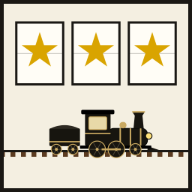
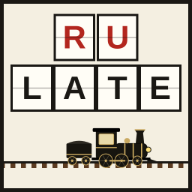
Rename the train game to CalcRU-Late, v1.1
Claude-Session: https://claude.ai/code/session_01FXsmfoauxf49KFRSfpntQY

diff --git a/timegame/index.html b/timegame/index.html
@@ -4,11 +4,11 @@
 <meta charset="utf-8">
 <meta name="viewport" content="width=device-width,initial-scale=1,maximum-scale=1,user-scalable=no,viewport-fit=cover">
 <meta name="claude:viewport-fit-sides" content="cover">
-<title>Track Record</title>
+<title>CalcRU-Late</title>
 <meta name="description" content="A daily train number game. Set the lever, leave on time, and arrive on the dot.">
 <meta name="theme-color" content="#f4efe1">
 <meta name="apple-mobile-web-app-capable" content="yes">
-<meta name="apple-mobile-web-app-title" content="Track Record">
+<meta name="apple-mobile-web-app-title" content="CalcRU-Late">
 <link rel="manifest" href="manifest.json">
 <link rel="apple-touch-icon" href="icon-180.png">
 <link rel="icon" href="icon-180.png">
@@ -99,13 +99,13 @@ input[type=range]::-moz-range-thumb{width:28px;height:38px;background:var(--btn)
   <div id="body"></div>
 </div>
 
-<div class="sheet" id="terms" hidden><div class="card"><h2>Track Record</h2>
-  <ul class="how"><li>Track Record is a game, just for fun. No real money, no betting and no prizes.</li><li>It’s provided as is, and it may change or stop working at any time.</li><li>No accounts and no ads. Nothing is sold. Your results stay on your device.</li><li>The website version sends an anonymous check-in so we can count how many devices play. It never includes your name, contacts or location.</li></ul>
+<div class="sheet" id="terms" hidden><div class="card"><h2>CalcRU-Late</h2>
+  <ul class="how"><li>CalcRU-Late is a game, just for fun. No real money, no betting and no prizes.</li><li>It’s provided as is, and it may change or stop working at any time.</li><li>No accounts and no ads. Nothing is sold. Your results stay on your device.</li><li>The website version sends an anonymous check-in so we can count how many devices play. It never includes your name, contacts or location.</li></ul>
   <button class="go" id="termsGo">Agree and play</button><div class="ver">By tapping Agree and play, you accept these terms.</div></div></div>
 
 <div class="sheet" id="cover" hidden><div class="in">
   <a id="coverHub" href="https://smaisle.app/daily/" hidden>‹ smAisle Daily</a>
-  <div class="mh"><h1>Track Record</h1><div><span id="cvDate"></span><span id="cvNo"></span></div></div>
+  <div class="mh"><h1>Calc<span style="color:var(--red)">RU</span>-Late</h1><div><span id="cvDate"></span><span id="cvNo"></span></div></div>
   <canvas id="cvArt" aria-hidden="true"></canvas>
   <p class="tag">Set the lever. Leave on time. Arrive on the dot.</p>
   <div id="cvStats" hidden></div>
@@ -146,7 +146,7 @@ input[type=range]::-moz-range-thumb{width:28px;height:38px;background:var(--btn)
 
 <script>
 (function(){
-var VERSION='1.0',VDATE='Nov 3',GAME='tr',TERMS='tr-terms',EPOCH='2026-11-03',FB_KEY='AIzaSyAlbSCTpAiK-1tojkyWrY3QuJsSzILHSfs',FB_PROJ='aislerun-88e79',URL='https://smaisle.app/Trackulate/timegame/';
+var VERSION='1.1',VDATE='Nov 4',GAME='tr',TERMS='tr-terms',EPOCH='2026-11-03',FB_KEY='AIzaSyAlbSCTpAiK-1tojkyWrY3QuJsSzILHSfs',FB_PROJ='aislerun-88e79',URL='https://smaisle.app/Trackulate/timegame/';
 var VTXT='v'+VERSION+' · '+VDATE,$=function(i){return document.getElementById(i)};
 var WEB=/github\.io$|smaisle\.app$/.test(location.hostname);
 var store={get:function(k,d){try{var v=localStorage.getItem(k);return v===null?d:v}catch(e){return d}},set:function(k,v){try{localStorage.setItem(k,v)}catch(e){}},json:function(k,d){try{var v=JSON.parse(localStorage.getItem(k));return v===null?d:v}catch(e){return d}},put:function(k,v){try{localStorage.setItem(k,JSON.stringify(v))}catch(e){}}};
@@ -256,13 +256,13 @@ function done(lv,sp,total){busy=false;tries++;var diff=Math.round(lv+total+T.tz-
  if(DEMO){DEMO.done=1;return}
  if($('ag'))$('ag').onclick=setup;$('nx').onclick=function(){tries=0;i++;if(i>=5){if(!store.json(skey(DAY),{}).over)record();fin(true)}else{save();setup()}}}
 function title(t){return t>=13?'Best conductor on the line.':t>=8?'Mostly on schedule.':'The station master wants a word.'}
-function receipt(){var t=sumS();return '<h3>smAisle</h3><div class="sub">Track Record · No. '+dayNo(DAY)+' · '+nd(DAY,{month:'short',day:'numeric'})+'</div>'+TN.map(function(x,k){var s=stars[k]||0;return '<div class="rl"><span>'+nice(x.a)+' to '+nice(x.b)+'</span><i></i><span>'+'★'.repeat(s)+'☆'.repeat(3-s)+'</span></div>'}).join('')+'<div class="rl tot"><span>Total</span><i></i><span>'+t+' of 15</span></div>'}
+function receipt(){var t=sumS();return '<h3>smAisle</h3><div class="sub">CalcRU-Late · No. '+dayNo(DAY)+' · '+nd(DAY,{month:'short',day:'numeric'})+'</div>'+TN.map(function(x,k){var s=stars[k]||0;return '<div class="rl"><span>'+nice(x.a)+' to '+nice(x.b)+'</span><i></i><span>'+'★'.repeat(s)+'☆'.repeat(3-s)+'</span></div>'}).join('')+'<div class="rl tot"><span>Total</span><i></i><span>'+t+' of 15</span></div>'}
 function fin(loud){RID++;busy=false;i=5;if(loud)fanfare();hdr();msg(title(sumS()));board([ln('LAST TRAIN'),ln('ALL IN')]);$('body').innerHTML='<div class="rc">'+receipt()+'</div><button class="go big" id="sr">See results</button>';$('sr').onclick=showDone;if(loud)setTimeout(function(){if(i>=5&&!DEMO)showDone()},1500);else showDone()}
 function showDone(){if(DEMO)return;only('done');loadMore();$('dTitle').textContent=title(sumS());$('dRc').innerHTML=receipt();$('dNext').textContent=PAST?'Archive trains':'New trains at midnight Eastern';$('dHub').hidden=!(WEB||window.DG_APP);$('dShare').style.gridColumn=$('dHub').hidden?'1/-1':''}
 function record(){var t=stars.reduce(function(a,b){return a+(b||0)},0);store.put(skey(DAY),{over:1,i:5,tries:0,stars:stars});var h=store.json('tr-hist',{});if(!h[DAY]){h[DAY]={t:t};if(PAST)h[DAY].late=1;store.put('tr-hist',h)}if(!PAST){markDone();checkIn('done')}}
 function markDone(){try{var s=store.json('smaisle_done',{})||{},d=new Date(),day=d.getFullYear()+'-'+String(d.getMonth()+1).padStart(2,'0')+'-'+String(d.getDate()).padStart(2,'0');s[day]=s[day]||[];if(s[day].indexOf('tr')<0)s[day].push('tr');var k=Object.keys(s).sort();while(k.length>60)delete s[k.shift()];store.put('smaisle_done',s)}catch(e){}}
 function statsOf(){var h=store.json('tr-hist',{}),V=Object.values(h),n=dayNo(TODAY),run=0,max=0;for(var q=1;q<=n;q++){var r=h[dateOf(q)];if(r&&!r.late){run++;max=Math.max(max,run)}else if(q<n)run=0}var sum=V.reduce(function(a,v){return a+v.t},0);return {played:V.length,avg:V.length?Math.round(sum/V.length*10)/10:0,top:V.reduce(function(a,v){return Math.max(a,v.t)},0),perfect:V.filter(function(v){return v.t===15}).length,cur:run,max:max}}
-function share(){var c=['⬛','🟧','🟨','🟩'];return 'Track Record No. '+dayNo(DAY)+' 🚂\n'+[0,1,2,3,4].map(function(k){return c[stars[k]||0]}).join('')+' '+sumS()+' of 15\n'+URL}
+function share(){var c=['⬛','🟧','🟨','🟩'];return 'CalcRU-Late No. '+dayNo(DAY)+' 🚂\n'+[0,1,2,3,4].map(function(k){return c[stars[k]||0]}).join('')+' '+sumS()+' of 15\n'+URL}
 /* usage check-in. r = total stars for the day. */
 function devId(){var id=store.get('tr-dev','');if(!id){id=Array.from(crypto.getRandomValues(new Uint8Array(12)),function(b){return 'abcdefghijklmnopqrstuvwxyz0123456789'[b%36]}).join('');store.set('tr-dev',id)}return id}
 function inviteCode(){try{var c=localStorage.getItem('smaisle_code');if(c)return String(c).slice(0,40);var m=store.json('smaisle_codes',null);if(m){var v=Object.values(m).find(function(y){return y});if(v)return String(v).slice(0,40)}}catch(e){}return 'unknown'}
@@ -312,7 +312,7 @@ function stopDemo(){if(!DEMO)return;DEMO=null;RID++;busy=false;$('demoBar').hidd
 function startDemo(){stopDemo();closeAll();DEMO={i:-1,done:0};TN=DT;labels();$('demoBar').hidden=false;$('demoBlock').hidden=false;dnext()}
 function dnext(){if(!DEMO)return;DEMO.i++;if(DEMO.i>=DS.length){cover();return}var s=DS[DEMO.i];$('demoStep').textContent='Demo · '+(DEMO.i+1)+' of '+DS.length;$('demoNext').disabled=true;$('demoNext').textContent=DEMO.i===DS.length-1?'Done':'Next';if(s.r)s.r();var wait=function(){if(!DEMO)return;if(!s.w||s.w()){$('demoText').innerHTML=s.t();$('demoNext').disabled=false}else setTimeout(wait,150)};setTimeout(wait,s.r?400:60)}
 $('demoNext').onclick=dnext;$('demoSkip').onclick=cover;$('coverDemo').onclick=$('helpDemo').onclick=startDemo;
-['helpVer','sVer'].forEach(function(k){$(k).textContent=VTXT});$('mVer').textContent='Track Record · '+VTXT+' · smAisle';$('cvVer').textContent=VTXT;
+['helpVer','sVer'].forEach(function(k){$(k).textContent=VTXT});$('mVer').textContent='CalcRU-Late · '+VTXT+' · smAisle';$('cvVer').textContent=VTXT;
 if(WEB||window.DG_APP){$('coverHub').hidden=false;$('cover').classList.add('hub');$('mHub').hidden=false;$('coverHub').onclick=function(e){if(window.DG_APP){e.preventDefault();toApp({cmd:'home'})}}}
 dark();snd();
 if(store.get(TERMS,'')){cover();checkIn('open')}else only('terms');

diff --git a/timegame/source/game.js b/timegame/source/game.js
@@ -1,5 +1,5 @@
 (function(){
-var VERSION='1.0',VDATE='Nov 3',GAME='tr',TERMS='tr-terms',EPOCH='2026-11-03',FB_KEY='AIzaSyAlbSCTpAiK-1tojkyWrY3QuJsSzILHSfs',FB_PROJ='aislerun-88e79',URL='https://smaisle.app/Trackulate/timegame/';
+var VERSION='1.1',VDATE='Nov 4',GAME='tr',TERMS='tr-terms',EPOCH='2026-11-03',FB_KEY='AIzaSyAlbSCTpAiK-1tojkyWrY3QuJsSzILHSfs',FB_PROJ='aislerun-88e79',URL='https://smaisle.app/Trackulate/timegame/';
 var VTXT='v'+VERSION+' · '+VDATE,$=function(i){return document.getElementById(i)};
 var WEB=/github\.io$|smaisle\.app$/.test(location.hostname);
 var store={get:function(k,d){try{var v=localStorage.getItem(k);return v===null?d:v}catch(e){return d}},set:function(k,v){try{localStorage.setItem(k,v)}catch(e){}},json:function(k,d){try{var v=JSON.parse(localStorage.getItem(k));return v===null?d:v}catch(e){return d}},put:function(k,v){try{localStorage.setItem(k,JSON.stringify(v))}catch(e){}}};
@@ -41,13 +41,13 @@ function done(lv,sp,total){busy=false;tries++;var diff=Math.round(lv+total+T.tz-
  if(DEMO){DEMO.done=1;return}
  if($('ag'))$('ag').onclick=setup;$('nx').onclick=function(){tries=0;i++;if(i>=5){if(!store.json(skey(DAY),{}).over)record();fin(true)}else{save();setup()}}}
 function title(t){return t>=13?'Best conductor on the line.':t>=8?'Mostly on schedule.':'The station master wants a word.'}
-function receipt(){var t=sumS();return '<h3>smAisle</h3><div class="sub">Track Record · No. '+dayNo(DAY)+' · '+nd(DAY,{month:'short',day:'numeric'})+'</div>'+TN.map(function(x,k){var s=stars[k]||0;return '<div class="rl"><span>'+nice(x.a)+' to '+nice(x.b)+'</span><i></i><span>'+'★'.repeat(s)+'☆'.repeat(3-s)+'</span></div>'}).join('')+'<div class="rl tot"><span>Total</span><i></i><span>'+t+' of 15</span></div>'}
+function receipt(){var t=sumS();return '<h3>smAisle</h3><div class="sub">CalcRU-Late · No. '+dayNo(DAY)+' · '+nd(DAY,{month:'short',day:'numeric'})+'</div>'+TN.map(function(x,k){var s=stars[k]||0;return '<div class="rl"><span>'+nice(x.a)+' to '+nice(x.b)+'</span><i></i><span>'+'★'.repeat(s)+'☆'.repeat(3-s)+'</span></div>'}).join('')+'<div class="rl tot"><span>Total</span><i></i><span>'+t+' of 15</span></div>'}
 function fin(loud){RID++;busy=false;i=5;if(loud)fanfare();hdr();msg(title(sumS()));board([ln('LAST TRAIN'),ln('ALL IN')]);$('body').innerHTML='<div class="rc">'+receipt()+'</div><button class="go big" id="sr">See results</button>';$('sr').onclick=showDone;if(loud)setTimeout(function(){if(i>=5&&!DEMO)showDone()},1500);else showDone()}
 function showDone(){if(DEMO)return;only('done');loadMore();$('dTitle').textContent=title(sumS());$('dRc').innerHTML=receipt();$('dNext').textContent=PAST?'Archive trains':'New trains at midnight Eastern';$('dHub').hidden=!(WEB||window.DG_APP);$('dShare').style.gridColumn=$('dHub').hidden?'1/-1':''}
 function record(){var t=stars.reduce(function(a,b){return a+(b||0)},0);store.put(skey(DAY),{over:1,i:5,tries:0,stars:stars});var h=store.json('tr-hist',{});if(!h[DAY]){h[DAY]={t:t};if(PAST)h[DAY].late=1;store.put('tr-hist',h)}if(!PAST){markDone();checkIn('done')}}
 function markDone(){try{var s=store.json('smaisle_done',{})||{},d=new Date(),day=d.getFullYear()+'-'+String(d.getMonth()+1).padStart(2,'0')+'-'+String(d.getDate()).padStart(2,'0');s[day]=s[day]||[];if(s[day].indexOf('tr')<0)s[day].push('tr');var k=Object.keys(s).sort();while(k.length>60)delete s[k.shift()];store.put('smaisle_done',s)}catch(e){}}
 function statsOf(){var h=store.json('tr-hist',{}),V=Object.values(h),n=dayNo(TODAY),run=0,max=0;for(var q=1;q<=n;q++){var r=h[dateOf(q)];if(r&&!r.late){run++;max=Math.max(max,run)}else if(q<n)run=0}var sum=V.reduce(function(a,v){return a+v.t},0);return {played:V.length,avg:V.length?Math.round(sum/V.length*10)/10:0,top:V.reduce(function(a,v){return Math.max(a,v.t)},0),perfect:V.filter(function(v){return v.t===15}).length,cur:run,max:max}}
-function share(){var c=['⬛','🟧','🟨','🟩'];return 'Track Record No. '+dayNo(DAY)+' 🚂\n'+[0,1,2,3,4].map(function(k){return c[stars[k]||0]}).join('')+' '+sumS()+' of 15\n'+URL}
+function share(){var c=['⬛','🟧','🟨','🟩'];return 'CalcRU-Late No. '+dayNo(DAY)+' 🚂\n'+[0,1,2,3,4].map(function(k){return c[stars[k]||0]}).join('')+' '+sumS()+' of 15\n'+URL}
 /* usage check-in. r = total stars for the day. */
 function devId(){var id=store.get('tr-dev','');if(!id){id=Array.from(crypto.getRandomValues(new Uint8Array(12)),function(b){return 'abcdefghijklmnopqrstuvwxyz0123456789'[b%36]}).join('');store.set('tr-dev',id)}return id}
 function inviteCode(){try{var c=localStorage.getItem('smaisle_code');if(c)return String(c).slice(0,40);var m=store.json('smaisle_codes',null);if(m){var v=Object.values(m).find(function(y){return y});if(v)return String(v).slice(0,40)}}catch(e){}return 'unknown'}
@@ -97,7 +97,7 @@ function stopDemo(){if(!DEMO)return;DEMO=null;RID++;busy=false;$('demoBar').hidd
 function startDemo(){stopDemo();closeAll();DEMO={i:-1,done:0};TN=DT;labels();$('demoBar').hidden=false;$('demoBlock').hidden=false;dnext()}
 function dnext(){if(!DEMO)return;DEMO.i++;if(DEMO.i>=DS.length){cover();return}var s=DS[DEMO.i];$('demoStep').textContent='Demo · '+(DEMO.i+1)+' of '+DS.length;$('demoNext').disabled=true;$('demoNext').textContent=DEMO.i===DS.length-1?'Done':'Next';if(s.r)s.r();var wait=function(){if(!DEMO)return;if(!s.w||s.w()){$('demoText').innerHTML=s.t();$('demoNext').disabled=false}else setTimeout(wait,150)};setTimeout(wait,s.r?400:60)}
 $('demoNext').onclick=dnext;$('demoSkip').onclick=cover;$('coverDemo').onclick=$('helpDemo').onclick=startDemo;
-['helpVer','sVer'].forEach(function(k){$(k).textContent=VTXT});$('mVer').textContent='Track Record · '+VTXT+' · smAisle';$('cvVer').textContent=VTXT;
+['helpVer','sVer'].forEach(function(k){$(k).textContent=VTXT});$('mVer').textContent='CalcRU-Late · '+VTXT+' · smAisle';$('cvVer').textContent=VTXT;
 if(WEB||window.DG_APP){$('coverHub').hidden=false;$('cover').classList.add('hub');$('mHub').hidden=false;$('coverHub').onclick=function(e){if(window.DG_APP){e.preventDefault();toApp({cmd:'home'})}}}
 dark();snd();
 if(store.get(TERMS,'')){cover();checkIn('open')}else only('terms');

diff --git a/timegame/source/page.html b/timegame/source/page.html
@@ -4,11 +4,11 @@
 <meta charset="utf-8">
 <meta name="viewport" content="width=device-width,initial-scale=1,maximum-scale=1,user-scalable=no,viewport-fit=cover">
 <meta name="claude:viewport-fit-sides" content="cover">
-<title>Track Record</title>
+<title>CalcRU-Late</title>
 <meta name="description" content="A daily train number game. Set the lever, leave on time, and arrive on the dot.">
 <meta name="theme-color" content="#f4efe1">
 <meta name="apple-mobile-web-app-capable" content="yes">
-<meta name="apple-mobile-web-app-title" content="Track Record">
+<meta name="apple-mobile-web-app-title" content="CalcRU-Late">
 <link rel="manifest" href="manifest.json">
 <link rel="apple-touch-icon" href="icon-180.png">
 <link rel="icon" href="icon-180.png">
@@ -99,13 +99,13 @@ input[type=range]::-moz-range-thumb{width:28px;height:38px;background:var(--btn)
   <div id="body"></div>
 </div>
 
-<div class="sheet" id="terms" hidden><div class="card"><h2>Track Record</h2>
-  <ul class="how"><li>Track Record is a game, just for fun. No real money, no betting and no prizes.</li><li>It’s provided as is, and it may change or stop working at any time.</li><li>No accounts and no ads. Nothing is sold. Your results stay on your device.</li><li>The website version sends an anonymous check-in so we can count how many devices play. It never includes your name, contacts or location.</li></ul>
+<div class="sheet" id="terms" hidden><div class="card"><h2>CalcRU-Late</h2>
+  <ul class="how"><li>CalcRU-Late is a game, just for fun. No real money, no betting and no prizes.</li><li>It’s provided as is, and it may change or stop working at any time.</li><li>No accounts and no ads. Nothing is sold. Your results stay on your device.</li><li>The website version sends an anonymous check-in so we can count how many devices play. It never includes your name, contacts or location.</li></ul>
   <button class="go" id="termsGo">Agree and play</button><div class="ver">By tapping Agree and play, you accept these terms.</div></div></div>
 
 <div class="sheet" id="cover" hidden><div class="in">
   <a id="coverHub" href="https://smaisle.app/daily/" hidden>‹ smAisle Daily</a>
-  <div class="mh"><h1>Track Record</h1><div><span id="cvDate"></span><span id="cvNo"></span></div></div>
+  <div class="mh"><h1>Calc<span style="color:var(--red)">RU</span>-Late</h1><div><span id="cvDate"></span><span id="cvNo"></span></div></div>
   <canvas id="cvArt" aria-hidden="true"></canvas>
   <p class="tag">Set the lever. Leave on time. Arrive on the dot.</p>
   <div id="cvStats" hidden></div>

diff --git a/timegame/owner.html b/timegame/owner.html
@@ -4,7 +4,7 @@
 <meta charset="utf-8">
 <meta name="viewport" content="width=device-width, initial-scale=1">
 <meta name="robots" content="noindex,nofollow">
-<title>Track Record Owner</title>
+<title>CalcRU-Late Owner</title>
 <style>
   :root{--bg:#070b1a;--paper:#121a38;--ink:#f5f7ff;--muted:#93a0c4;--line:#26315a;--hot:#ff6a2b}
   *{box-sizing:border-box} body{margin:0;background:var(--bg);color:var(--ink);font:15px/1.45 -apple-system,BlinkMacSystemFont,"Segoe UI",Roboto,sans-serif}
@@ -25,7 +25,7 @@
 </head>
 <body>
 <header>
-  <h1><em>Track Record</em> owner</h1>
+  <h1><em>CalcRU-Late</em> owner</h1>
   <div class="row"><span id="who" class="muted"></span><button id="signin" class="primary" hidden>Sign in with Google</button><button id="signout" hidden>Sign out</button></div>
 </header>
 <main>
@@ -45,7 +45,7 @@ $("#signin").onclick=()=>auth.signInWithPopup(new firebase.auth.GoogleAuthProvid
 $("#signout").onclick=()=>auth.signOut();
 auth.onAuthStateChanged(async u=>{
   $("#signin").hidden=!!u; $("#signout").hidden=!u; $("#who").textContent=u?u.email:""; $("#usage").hidden=true;
-  if(!u){ $("#msg").textContent="Sign in with the Google account that owns Track Record to see how many devices play."; return; }
+  if(!u){ $("#msg").textContent="Sign in with the Google account that owns CalcRU-Late to see how many devices play."; return; }
   $("#msg").textContent="Loading…";
   try{
     const ds=await db.collection("tr_devices").limit(10000).get();
